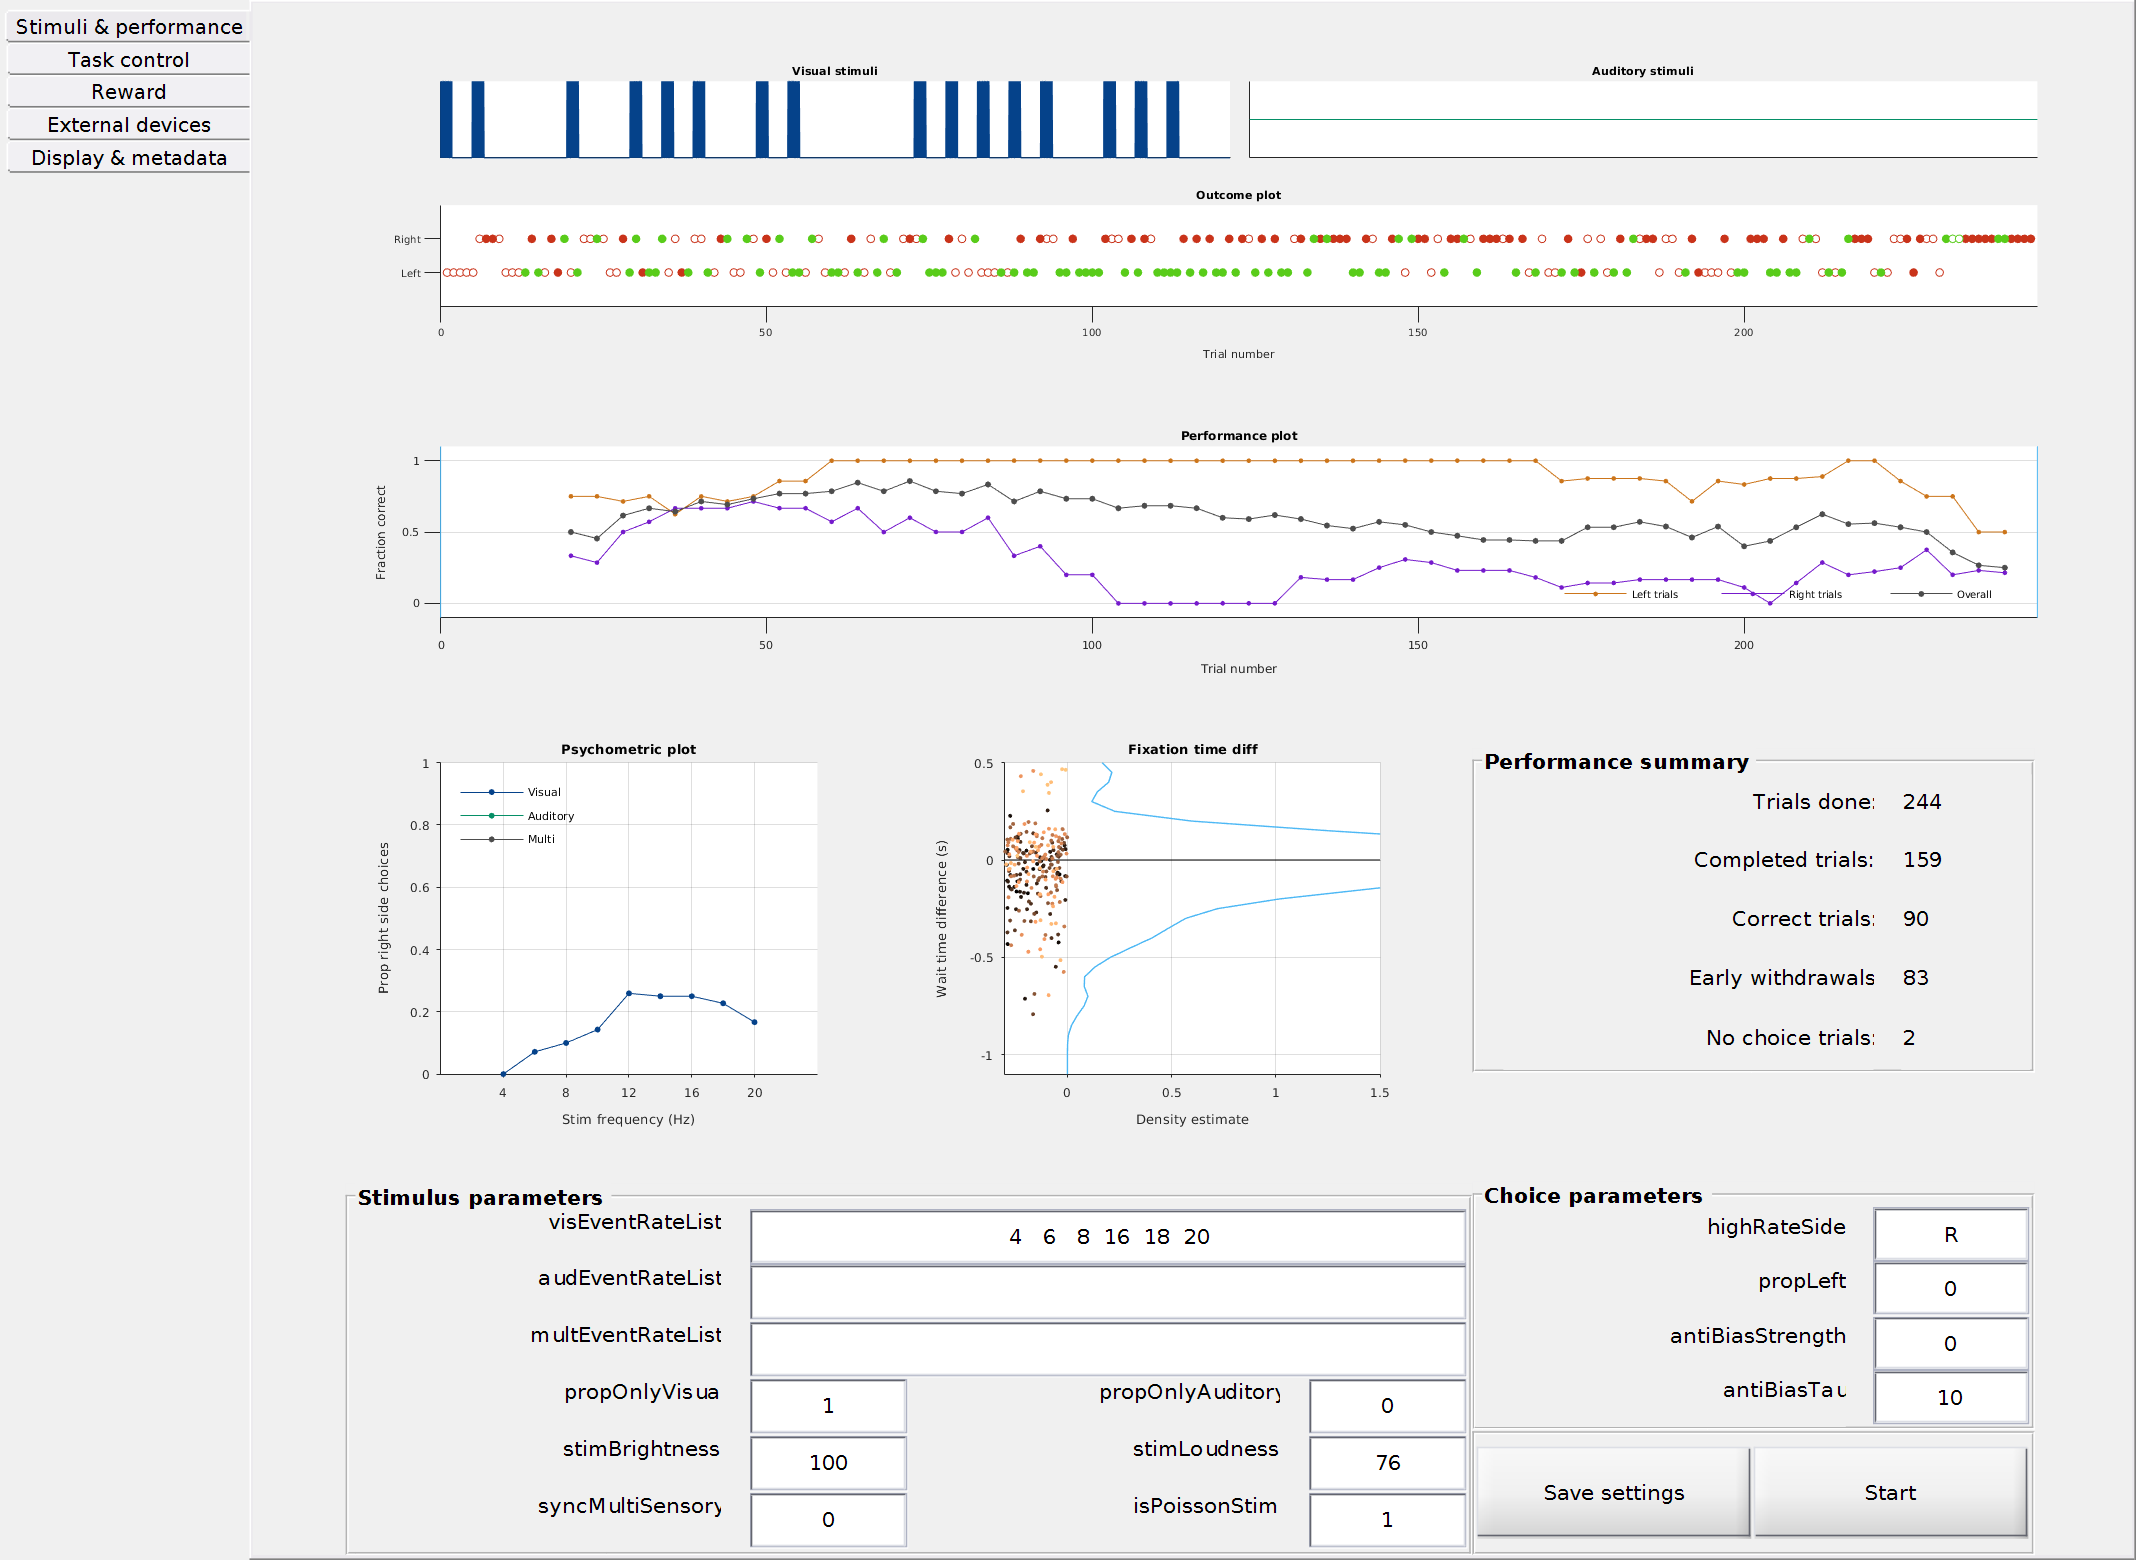
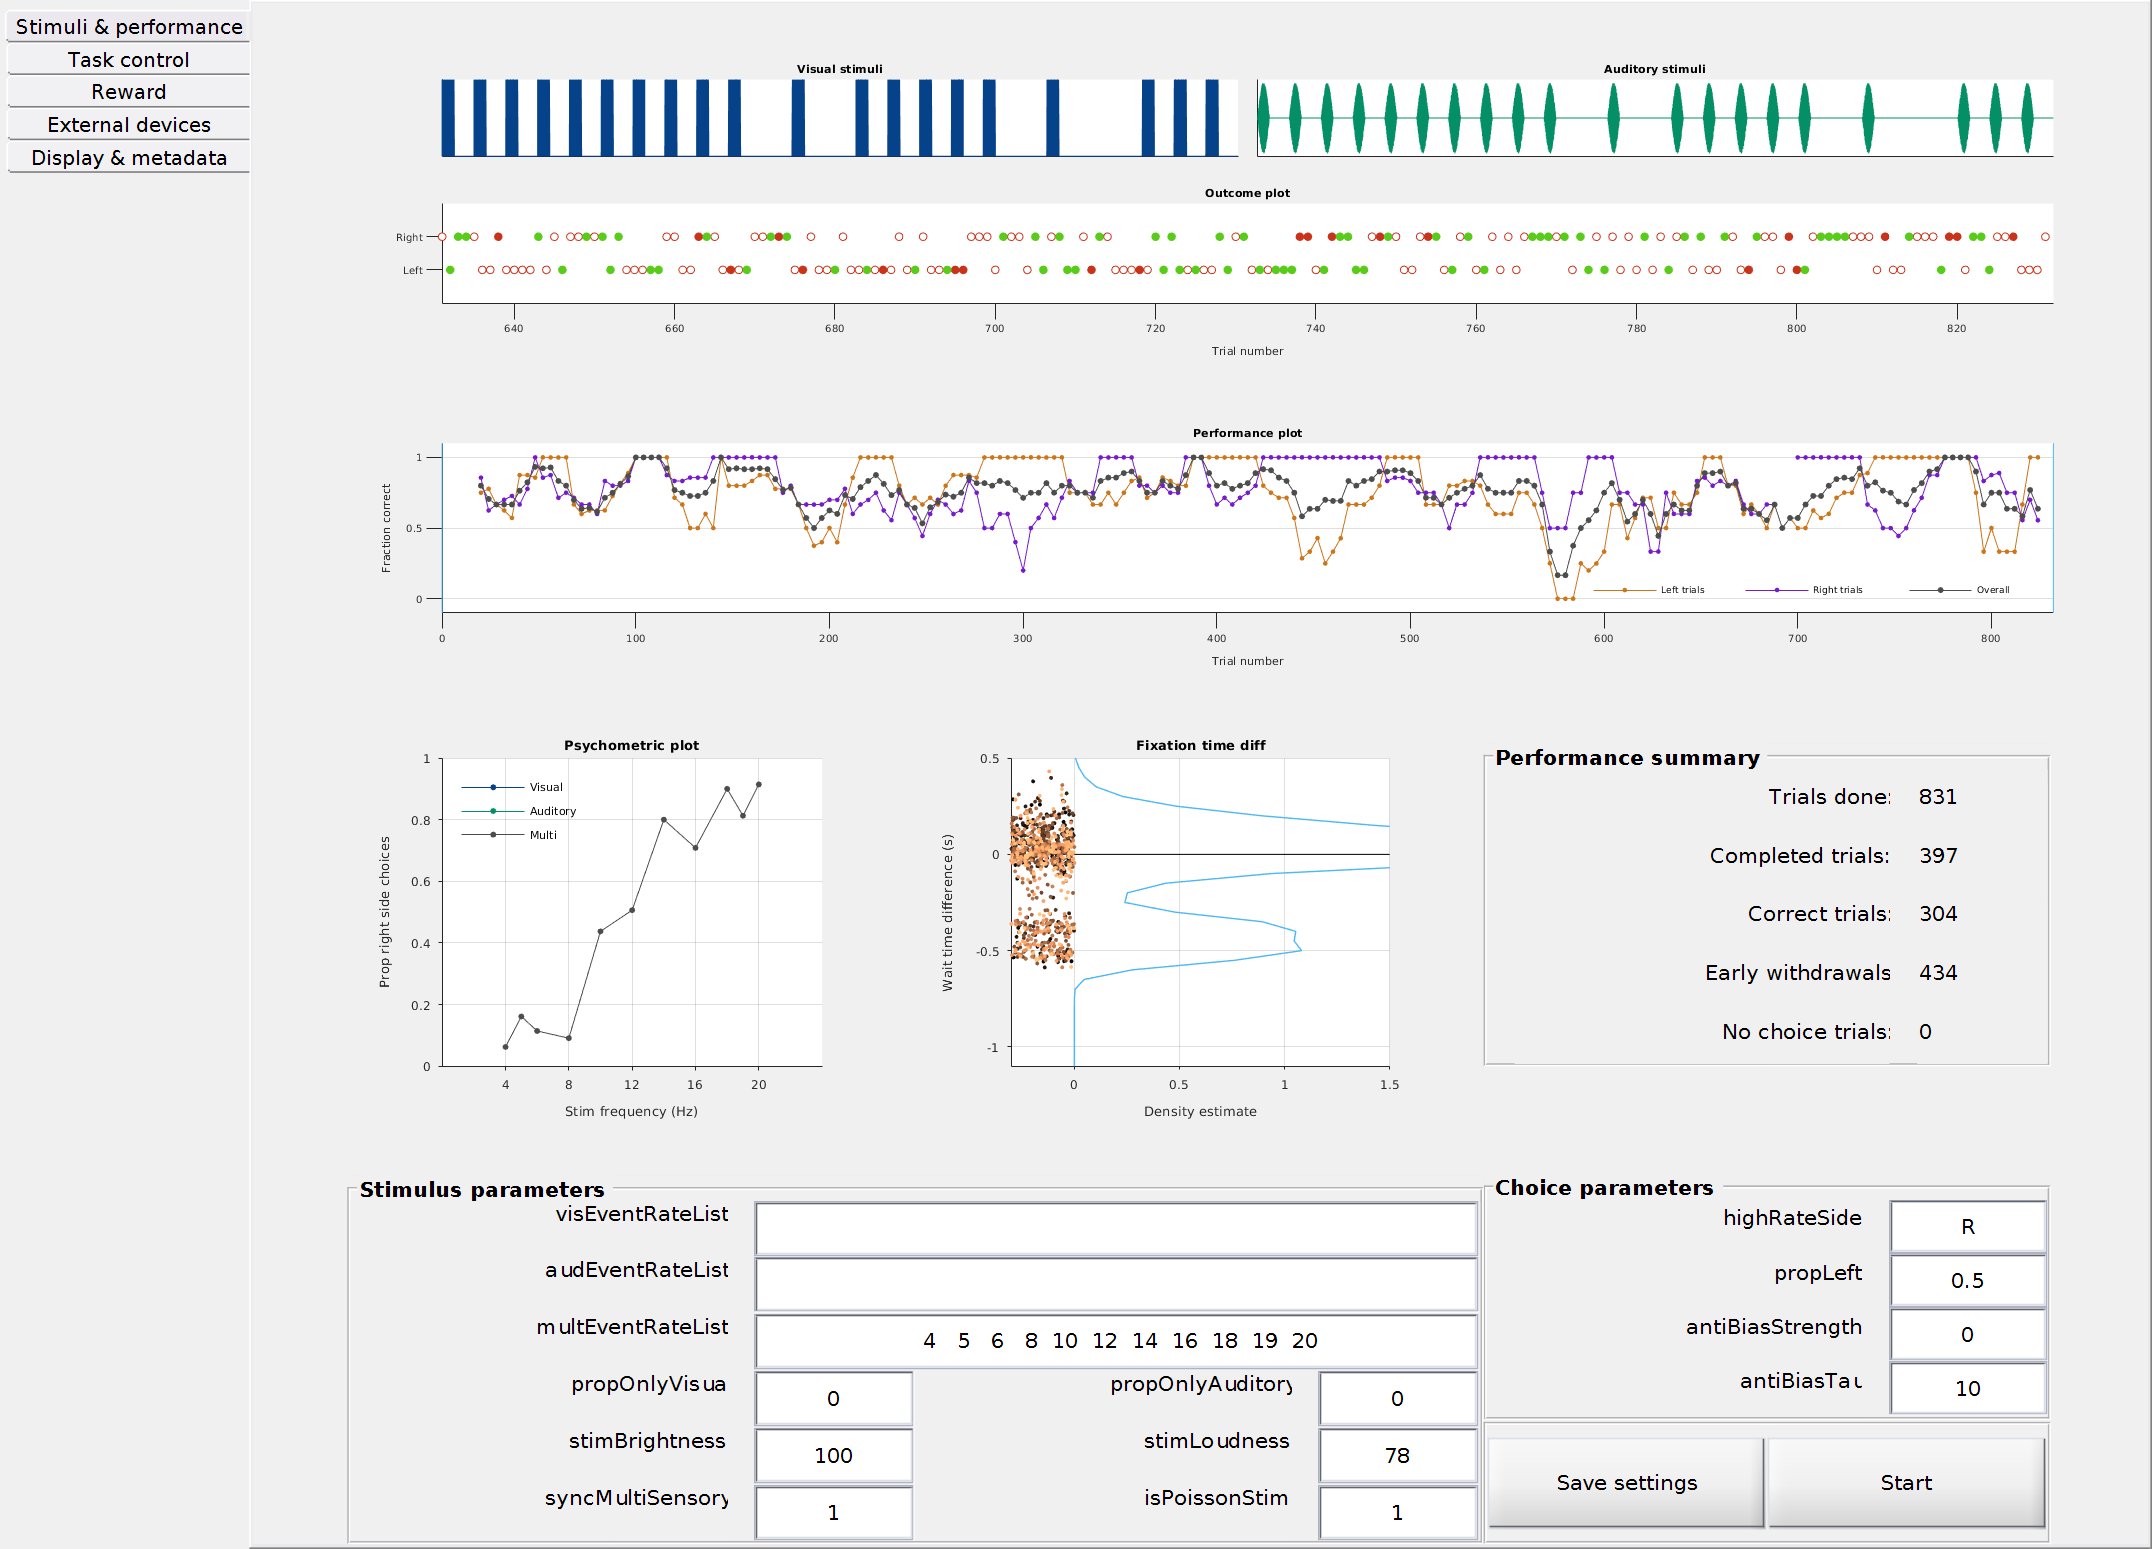
Use GRB006 July 23 expert-session replay for the GUI screenshot

diff --git a/README.md b/README.md
@@ -8,11 +8,11 @@ This repo contains the code, setup description, assembly instructions, and parts
 
 ## Task window
 
-Screenshots captured on Mercury. The performance view replays all 244 trials from recorded session GRB064 `20261030_151009`; the Task control view uses saved FakeSubject test settings.
+Screenshots captured on Mercury. The performance view replays GRB006 `20240723_142451`: 831 trials, including 397 completed choices. The outcome panel shows the 200 most recent trials; the performance and psychometric plots use the full session. The Task control view uses saved FakeSubject test settings.
 
 The **Stimuli & performance** tab shows the stimulus, outcomes, performance and psychometric plots. The psychometric legend follows the three modality curves.
 
-![Solo performance tab replaying 244 recorded trials](images/gui/solo-performance.png)
+![Solo performance tab replaying GRB006's July 23 session with 200 recent outcomes and full-session performance curves](images/gui/solo-performance.png)
 
 The **Task control** tab contains the state diagram, `baseWait`, fixation timing and trial delays.
 
